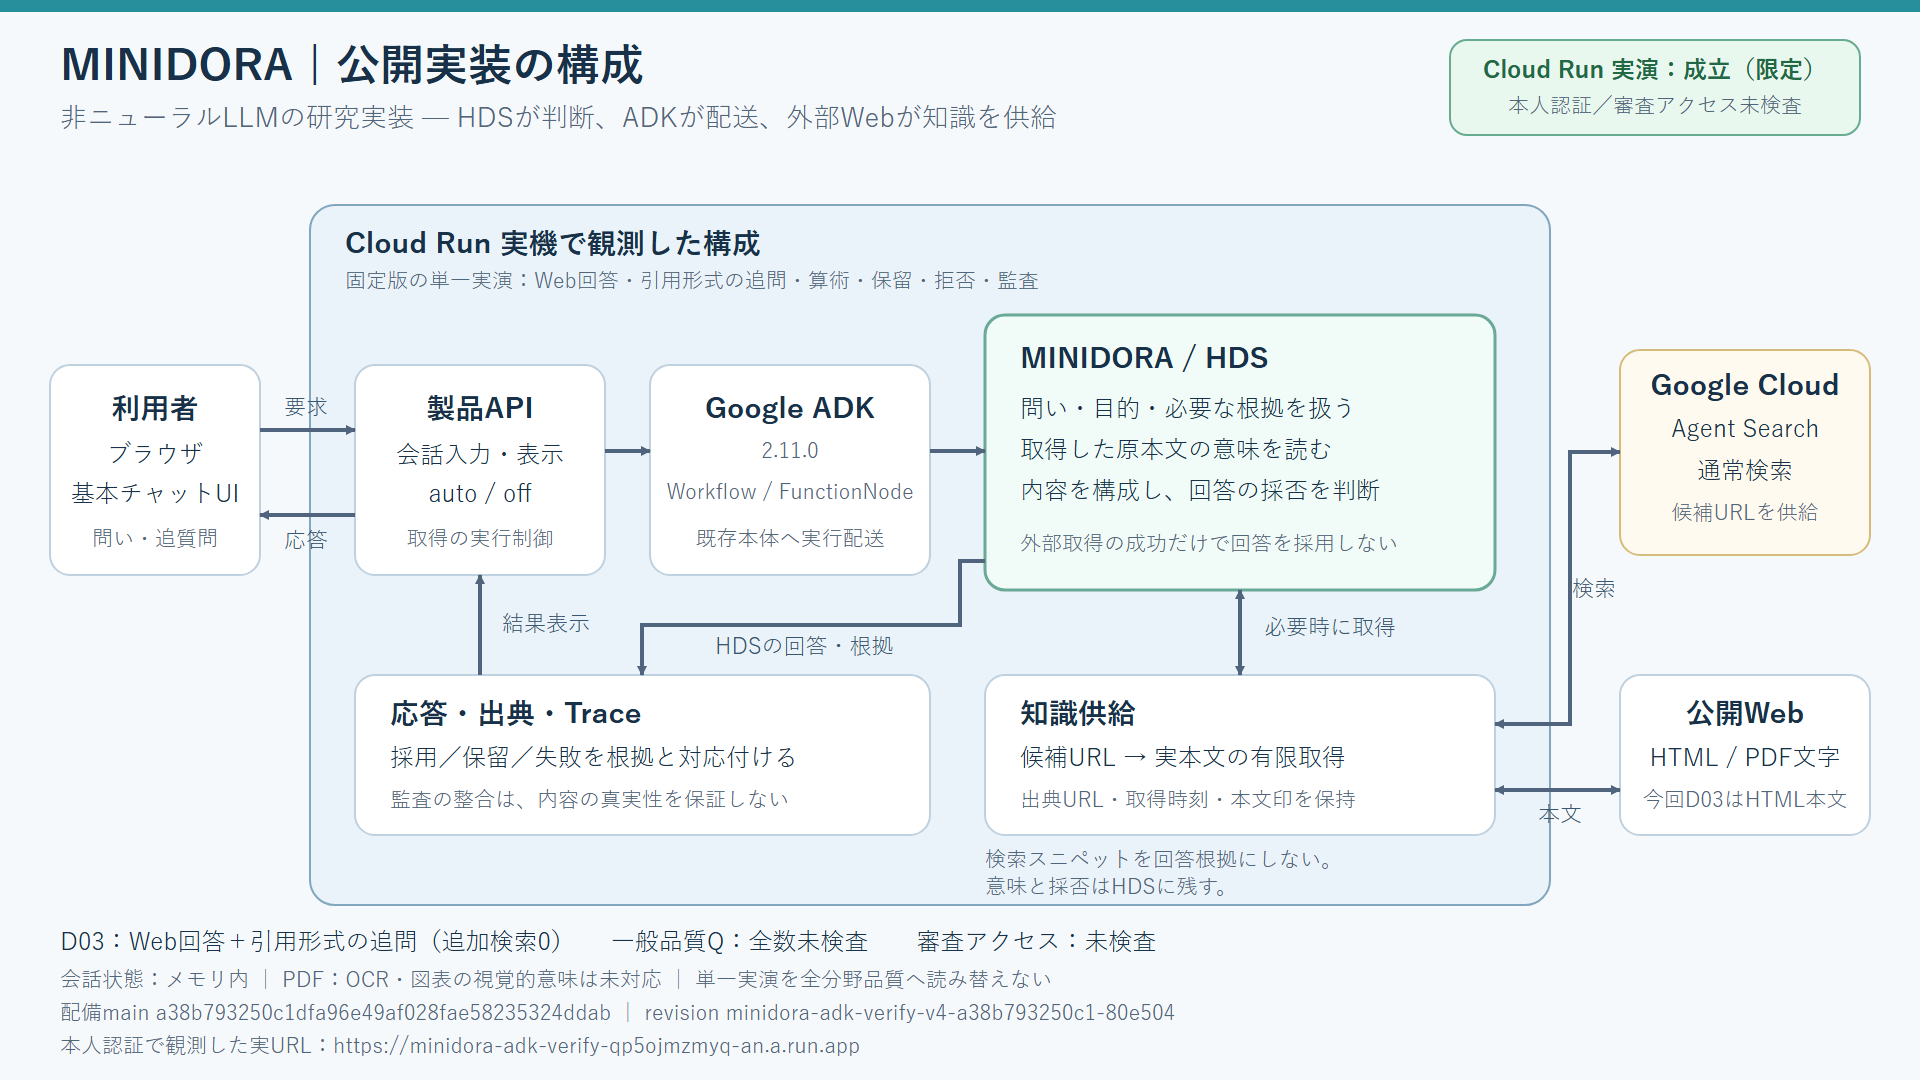
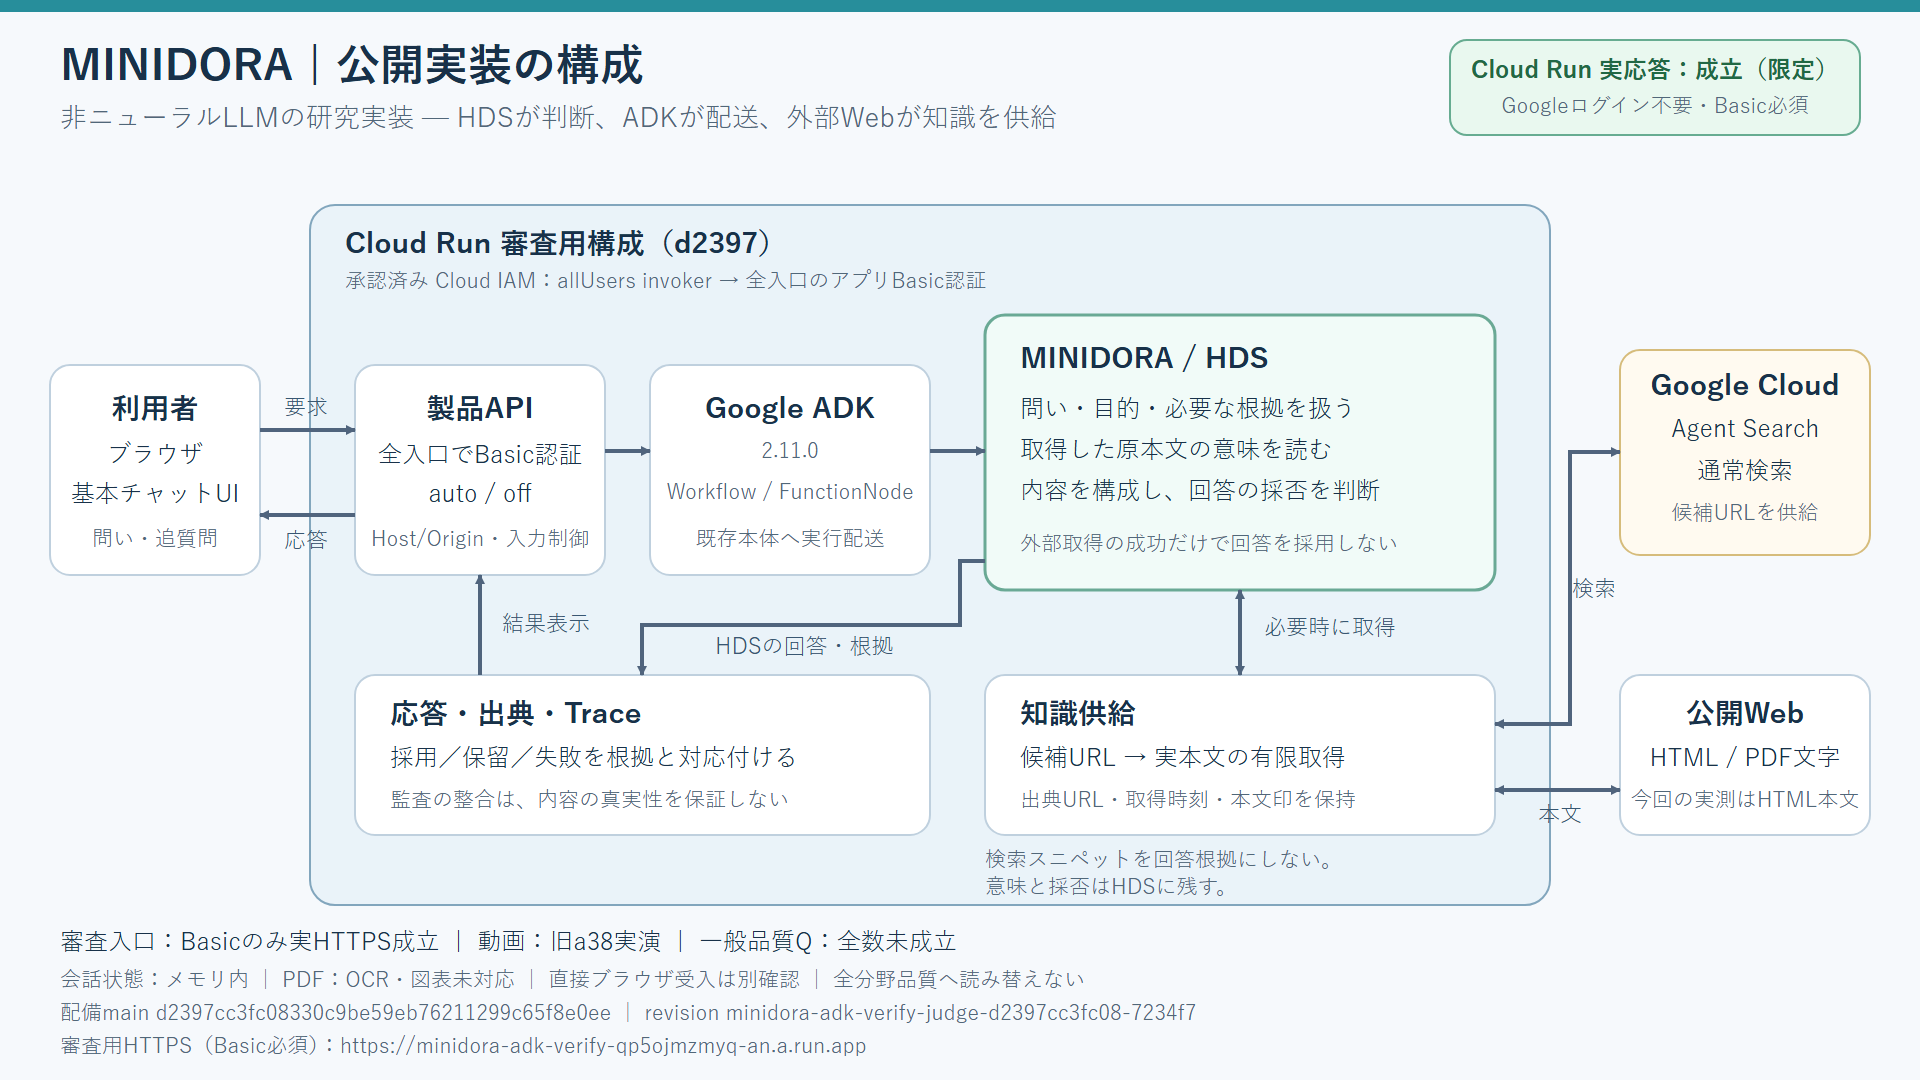
審査用Cloud実機・公開動画・構成図を整合し既存本人IAM保持を検査する

diff --git a/tests/test_CloudRun配備設定.py b/tests/test_CloudRun配備設定.py
@@ -115,6 +115,40 @@ class CloudRun配備設定試験(unittest.TestCase):
         サービス["spec"]["template"]["spec"]["containers"][0]["env"].append({"name": "MINIDORA_HTTP_BASIC_PASSWORD", "value": "invalid"})
         with self.assertRaises(ValueError): self.記録(サービス)
 
+    def test_承認後は同roleの既存本人を保持したまま公開IAMを検査する(self):
+        for members in (["allUsers", "user:judge-fixture@example.invalid"],
+                        ["user:judge-fixture@example.invalid", "allUsers"]):
+            with self.subTest(members=members):
+                IAM = {"bindings": [{IAM役割鍵: "roles/run.invoker", "members": members},
+                                    {IAM役割鍵: "roles/run.viewer", "members": ["user:viewer-fixture@example.invalid"]}]}
+                原IAM = deepcopy(IAM)
+                記録 = self.記録(IAM=IAM, 審査公開=True)
+                self.assertTrue(記録["審査公開"])
+                self.assertFalse(記録["CloudIAM本人認証必須"])
+                self.assertEqual(記録["利用者認証"], "HTTP Basic")
+                self.assertTrue(記録["認証必須"])
+                self.assertEqual(IAM, 原IAM)
+                with self.assertRaises(ValueError): self.記録(IAM=IAM)
+                self.assertEqual(IAM, 原IAM)
+
+    def test_本人併合で余分な公開主体とroleと条件を受け入れない(self):
+        本人 = "user:judge-fixture@example.invalid"
+        公開 = {IAM役割鍵: "roles/run.invoker", "members": ["allUsers", 本人]}
+        不正群 = (
+            {"bindings": [{IAM役割鍵: "roles/run.invoker", "members": [本人]}]},
+            {"bindings": [{IAM役割鍵: "roles/run.invoker", "members": ["allUsers", "allAuthenticatedUsers", 本人]}]},
+            {"bindings": [{IAM役割鍵: "roles/owner", "members": ["allUsers", 本人]}]},
+            {"bindings": [{**公開, "condition": {"expression": "true"}}]},
+            {"bindings": [公開, {IAM役割鍵: "roles/run.invoker", "members": ["allUsers"]}]},
+            {"bindings": [公開, {IAM役割鍵: "roles/run.viewer", "members": ["allAuthenticatedUsers"]}]},
+            {"bindings": [{IAM役割鍵: "roles/run.invoker", "members": ["allUsers", "serviceAccount:" + self.SA]}]},
+        )
+        for 番号, IAM in enumerate(不正群):
+            with self.subTest(番号=番号):
+                原IAM = deepcopy(IAM)
+                with self.assertRaises(ValueError): self.記録(IAM=IAM, 審査公開=True)
+                self.assertEqual(IAM, 原IAM)
+
 
 if __name__ == "__main__":
     unittest.main()

diff --git a/tools/CloudRun配備設定.py b/tools/CloudRun配備設定.py
@@ -44,7 +44,7 @@ def サービスIAMを検査(IAM, *, 審査公開=False):
              if set(行.get("members", [])) & {"allUsers", "allAuthenticatedUsers"}]
     if 審査公開:
         if (len(公開行) != 1 or 公開行[0].get("role") != "roles/run.invoker"
-                or set(公開行[0].get("members", [])) != {"allUsers"}
+                or (set(公開行[0].get("members", [])) & {"allUsers", "allAuthenticatedUsers"}) != {"allUsers"}
                 or 公開行[0].get("condition")):
             raise ValueError("承認後の公開IAMはallUsersのrun.invoker一付与に限定します")
     elif 公開行:

diff --git a/README.md b/README.md
@@ -10,23 +10,35 @@
 
 既存MINIDORAのHDSが問い、必要な根拠、資料の意味、回答の採否を扱い、Google ADK 2.11.0のWorkflow／FunctionNodeから同じ本体へ実行を配送します。根拠が不足する場合は管理者の許可内で検索し、実Web本文を取得します。検索スニペットや外部生成LLMを回答の代行にしません。
 
-2026-10-13、本人認証でCloud Run上の提出用D03実演が成立しました。以下は固定版で行った一回の実演観測であり、一般チャット全体の品質評価ではありません。
+2026-10-13、本人認証でのD03実演に続き、本人承認済みの審査用Basic認証入口で実HTTPS応答を確認しました。以下は固定版の限定的な実機観測であり、一般チャット全体の品質評価ではありません。
 
 | 展示情報 | 実測・現在の状態 |
 |---|---|
-| 実Cloud Run URL | [https://minidora-adk-verify-qp5ojmzmyq-an.a.run.app](https://minidora-adk-verify-qp5ojmzmyq-an.a.run.app)。IAM認証必須 |
-| revision | `minidora-adk-verify-v4-a38b793250c1-80e504` |
-| 配備main／本体コード復元点 | `a38b793250c1dfa96e49af028fae58235324ddab`／`45a383943df8fc58666689ee8e1e8f90de1c26be` |
-| Cloud Build／image digest | `8388d52d-4911-4c98-b632-7d2ed38a1cbc`／`sha256:ff83a7b03ce75d84fb1ffb8411dd1daf5ba7375314fc40c0b59a193910480af0` |
-| 審査アクセス | 本人認証での確認のみ。審査主体の利用許可・到達性は未検査 |
-| 約3分の実演動画 | 180秒MP4完成。指定チャンネルへ非公開下書きとしてアップロード済み、公開前 |
+| 実Cloud Run URL | [https://minidora-adk-verify-qp5ojmzmyq-an.a.run.app](https://minidora-adk-verify-qp5ojmzmyq-an.a.run.app)。HTTP Basic認証必須、Googleログイン不要 |
+| 現在のrevision | `minidora-adk-verify-judge-d2397cc3fc08-7234f7` |
+| 配備main／HDS本体コード復元点 | `d2397cc3fc08330c9be59eb76211299c65f8e0ee`／`45a383943df8fc58666689ee8e1e8f90de1c26be` |
+| Cloud Build／image digest | `49ceef54-1446-46bf-bc92-cd44254c2eef`／`sha256:951be8ea0978ff8d08bf14de7fdf8e68ee5c433faade600468b0cd255e8b217d` |
+| 審査アクセス | Basicだけを使うHTTPS検査19件・実応答3件を確認。通常ブラウザでの資格入力から回答表示までは未確認 |
+| 約3分の実演動画 | [YouTube公開動画](https://youtu.be/q7hF26QBabI)。180秒、旧a38 revisionの本人認証付き実演を収録 |
 | 一般チャット品質Q | 全数未検査・未成立。Cloud実演・提出とは別に評価 |
 
 ![MINIDORAの公開構成図](docs/minidora-cloud-architecture.png)
 
-[構成図SVG](docs/minidora-cloud-architecture.svg)／[構成図PNG](docs/minidora-cloud-architecture.png)。図は実装済みの接続と、限定的な実機観測・未確認の状態を示します。
+[構成図SVG](docs/minidora-cloud-architecture.svg)／[構成図PNG](docs/minidora-cloud-architecture.png)。現在の図はd2397の審査用Basic認証境界を示します。動画内の図と実画面は、先に収録した旧a38の本人認証付き構成です。HDS本体・ADK配送・検索処理は同じで、d2397ではHTTP認証境界を追加しています。
 
-### 今回Cloud上で観測した範囲
+### 審査用d2397で観測した範囲
+
+本人承認後、対象サービスに`allUsers`の`roles/run.invoker`だけを追加し、既存の本人権限とサービス構成を維持しました。アプリの全入口でBasic認証を要求し、Host/Origin・入力・頻度・監査の境界を維持しています。Googleの本人OIDCを取得・使用しないHTTPS検査19件で、UI・静的ファイル・health・capabilities、以下の3応答とTraceの取得を確認しました。
+
+| 入力 | 実応答・採否 | 実HTTP所要秒 |
+|---|---|---:|
+| `8*9` | `72`、APPROVE | 6.078 |
+| `藻場とは何か。` | `藻場は海藻が茂る場所です。`、APPROVE | 14.453 |
+| 同じ会話で `引用形式にして` | `> 藻場は海藻が茂る場所です。`、APPROVE | 15.562 |
+
+Web質問では検索1回・実本文1件を使い、追質問では同じ原本文を再利用して追加検索・取得HTTPが0でした。各応答でADK 2.11.0のWorkflow／FunctionNode、HDS呼出1、応答・Trace・独立v2監査の11項目が一致しました。無資格の6入口と誤資格のhealthは401、別Originは403、不正JSONは400でした。これは有限の実機検査であり、全受入CLIや一般品質Qを代替しません。
+
+### 旧a38 D03で観測した範囲
 
 | 入力 | 実応答・採否 | 実HTTP所要秒 |
 |---|---|---:|
@@ -38,13 +50,13 @@
 
 藻場の質問では、許可引数を指定せず、HDSの要求から検索1回・実本文1件を取得しました。回答は[環境省の「藻場とは」](https://www.env.go.jp/water/heisa/heisa_net/setouchiNet/seto/g1/g1chapter3/mobahigata/mobatowa/index.html)の「藻場とは、海藻が茂る場所のことです。」に対応します。同じ会話の引用形式への追質問は、この原資料を再利用し、追加検索・取得HTTPは0でした。この題材は開発時にも扱っており、初見独立品質評価の合格例には算入しません。
 
-5応答すべてでADK 2.11.0のWorkflow／FunctionNodeを通り、各要求のHDS呼出数は1でした。応答ごとの11項目の技術照合が成立し、独立した監査v2の再計算も一致しました。UI・health・capabilitiesは認証付きHTTP 200、未認証アクセスは403、別Originは403、不正JSONは400を観測しています。
+旧a38のrevision `minidora-adk-verify-v4-a38b793250c1-80e504`、main `a38b793250c1dfa96e49af028fae58235324ddab`で、5応答すべてがADK 2.11.0のWorkflow／FunctionNodeを通り、各要求のHDS呼出数は1でした。応答ごとの11項目の技術照合が成立し、独立した監査v2の再計算も一致しました。UI・health・capabilitiesは認証付きHTTP 200、未認証アクセスは403、別Originは403、不正JSONは400を観測しています。
 
-起動と取得方針は [製品版README](製品版/README.md) と [Cloud Run配備案内](deploy/CLOUD_RUN.md) を参照してください。審査アクセスは未検査のため、このURLを誰でも操作できる展示URLとは扱いません。認証を解除して公開する構成にはしていません。
+起動と取得方針は [製品版README](製品版/README.md) と [Cloud Run配備案内](deploy/CLOUD_RUN.md) を参照してください。審査員向けの操作手順は、上記HTTPS URLを開き、非公開欄で提供するusername/passwordを入力した後、「藻場とは何か。」、同じ会話で「引用形式にして」を送り、出典とTraceを確認するものです。資格を公開README、URL、画像、動画へ記載しません。取得許可は毎回指定する必要はなく、管理者の`auto`方針内でHDSが必要性を判断します。
 
-審査用の新しいHTTP入口は、全画面・API・healthでBasic認証を要求します。初回配備・受入はCloud IAMの本人認証も維持し、アプリ資格とGoogleの短期認証を分けます。審査員向けにCloud IAMの呼出許可を公開する操作は、本人承認後の手動工程です。Basic認証・Host/Origin・入力上限は公開後も維持します。非公開既定のworkflowへ公開フラグを追加して承認を迂回しません。実機の審査到達性は、ログインしていないブラウザで資格入力から実応答まで確認して判断します。設定と手動審査公開modeは[Cloud Run配備案内](deploy/CLOUD_RUN.md#審査用basic認証と手動公開mode)を参照してください。
+初回の新Basic入口はCloud IAMの本人認証も維持して受け入れ、その後、本人承認の手動操作で審査公開に切り替えました。旧a38の動画と新Basicの非公開IAM時のUI確認は、本人認証の中継を使いました。公開後の操作環境では直接Basic到達が制限され、中継UIの1試行も接続確認中のまま、チャット要求を開始せず終了しました。通常ブラウザの認証ダイアログからUI実応答までの受入は未確認で、前記のHTTPS検査と区別します。通常の配備workflowは非公開IAMを前提とし、公開済みサービスへの無断再配備を拒否します。設定と手動審査公開modeは[Cloud Run配備案内](deploy/CLOUD_RUN.md#審査用basic認証と手動公開mode)を参照してください。
 
-会話状態はメモリ内に限られ、再起動・新revision・インスタンス交換で失われます。PDFのOCRや図表の視覚的意味は未対応です。監査ハッシュの整合を回答の真実性の単独保証とは扱いません。3分の実画面動画MP4は完成し、指定チャンネルに非公開の下書きとしてアップロード済みです。動画の公開、審査アクセス、一般品質Q、応募受付は未成立です。下記のGPQA値は別系列・別時点の評価であり、この展示の一般チャット品質を表す値ではありません。
+会話状態はメモリ内に限られ、再起動・新revision・インスタンス交換で失われます。PDFのOCRや図表の視覚的意味は未対応です。監査ハッシュの整合を回答の真実性の単独保証とは扱いません。180秒の[公開動画](https://youtu.be/q7hF26QBabI)は旧a38の実ブラウザ画像を時系列で編集した間欠収録です。連続録画ではなく、収録時の通信エラー1回と再送後の成功を含めています。一般品質Qは未成立です。応募受付は別の提出操作で確認します（[Zennプロジェクトページ](https://zenn.dev/hackathons/google-cloud-japan-ai-hackathon-vol5/projects/4d372c1f56834c)）。下記のGPQA値は別系列・別時点の評価であり、この展示の一般チャット品質を表す値ではありません。
 
 ## 現在地
 

diff --git a/製品版/README.md b/製品版/README.md
@@ -119,9 +119,9 @@ APIの `external_read` を省略すると管理者方針に従います。`false
 
 提示文章の説明・要約・比較には外部検索許可は不要です。検索結果の見出しや短い説明だけを事実の根拠にせず、回答の主要な主張を取得本文へ対応させます。構文や根拠が不足する場合は、保留と不足条件を返します。起動や採用状態だけでは一般チャットの品質成立を意味しません。
 
-会話状態と監査台帳はメモリに保持します。新しい会話IDでは以前の会話を参照できず、サーバの再起動では失われます。今回のCloud Run実測は本人認証での限定的なD03実演です。審査主体のアクセスと再起動をまたぐ会話継続は未確認です。
+会話状態と監査台帳はメモリに保持します。新しい会話IDでは以前の会話を参照できず、サーバの再起動では失われます。Cloud Runでは旧a38の本人認証付きD03実演に続き、main `d2397cc3fc08330c9be59eb76211299c65f8e0ee`、revision `minidora-adk-verify-judge-d2397cc3fc08-7234f7`の審査用Basicのみの実HTTPS検査を確認しました。本人承認により対象サービスのCloud IAM呼出許可を公開し、全画面・API・healthのBasic認証を維持しています。審査用URLは [リポジトリREADME](../README.md) を参照し、資格は審査員向け非公開欄で提供します。直接ブラウザの資格入力から回答表示までと、再起動をまたぐ会話継続は別の未確認事項です。
 
-この基本チャットは一般品質の受入前の開発版です。2026-10-13のCloud上のD03では、藻場の実本文に対応する回答と同じ会話の引用形式への追質問、算術の入力変更、保留と拒否、ADK通過・監査の対応を一回観測しました。算術後の「詳しく説明して」はSUSPENDです。詳しい入力・出典・配備版は [リポジトリREADME](../README.md) を参照してください。審査主体の到達性、独立品質Qの全数評価、完成動画・掲載、応募受付は未成立です。局所検査やこの実演を一般質問の品質合格へ算入しません。Qの未成立を実機・提出の開始前条件にせず、未達を成立済みとは表示しません。
+この基本チャットは一般品質の受入前の開発版です。2026-10-13のCloud上のD03では、藻場の実本文に対応する回答と同じ会話の引用形式への追質問、算術の入力変更、保留と拒否、ADK通過・監査の対応を一回観測しました。算術後の「詳しく説明して」はSUSPENDです。詳しい入力・出典・配備版は [リポジトリREADME](../README.md) を参照してください。新Basic入口ではGoogleの本人OIDCを使わないHTTPS検査19件と実応答3件が成立し、[180秒のYouTube動画](https://youtu.be/q7hF26QBabI)も公開しました。動画は旧a38の実画面と図を収録したもので、d2397では同じHDS本体へHTTP認証境界を追加しています。直接ブラウザの資格入力から回答表示、独立品質Q全数、応募受付は、この限定受入だけでは成立としません。局所検査やこの実演を一般質問の品質合格へ算入しません。Qの未成立を実機・提出の開始前条件にせず、未達を成立済みとは表示しません。
 
 ## 従来のローカルWeb検索
 

diff --git a/CURRENT_CANONICAL.md b/CURRENT_CANONICAL.md
@@ -27,7 +27,9 @@
 
 - 旧候補の実不成立からの有限追加検索（2026-10-13、受入前）の復元点: `45a383943df8fc58666689ee8e1e8f90de1c26be`。実不成立・旧本文・原不足・資源消費を保持し、候補原順序と実重複を照合。関連58件PASSと追加補強3件PASS、最終影響3件PASSを確認。MVP本文総数を2検索×各6本文の12へ有限再評価。初見品質受入と新MVPのCloud Run実機受入は未成立。
 
-- 最新のCloud実演状態（2026-10-13、限定D03）：main `a38b793250c1dfa96e49af028fae58235324ddab`、本体復元点 `45a383943df8fc58666689ee8e1e8f90de1c26be`。本人認証の[実URL](https://minidora-adk-verify-qp5ojmzmyq-an.a.run.app)、revision `minidora-adk-verify-v4-a38b793250c1-80e504`でWeb本文に対応する回答・引用形式の追質問・算術入力変更・保留・拒否を一回観測。5応答の各11技術項目と独立v2監査が成立。審査主体アクセス、一般品質Q全数、完成動画・掲載、応募受付は未成立。GPQA性能正本は更新しない。過去の節目の「未受入」は当時の状態として保持する。
+- 旧a38のCloud実演状態（2026-10-13、限定D03の記録）：main `a38b793250c1dfa96e49af028fae58235324ddab`、本体復元点 `45a383943df8fc58666689ee8e1e8f90de1c26be`。本人認証の[実URL](https://minidora-adk-verify-qp5ojmzmyq-an.a.run.app)、revision `minidora-adk-verify-v4-a38b793250c1-80e504`でWeb本文に対応する回答・引用形式の追質問・算術入力変更・保留・拒否を一回観測。5応答の各11技術項目と独立v2監査が成立。審査主体アクセス、一般品質Q全数、完成動画・掲載、応募受付は未成立。GPQA性能正本は更新しない。過去の節目の「未受入」は当時の状態として保持する。
+
+- 現在の審査用Cloud入口（2026-10-13、限定D04）：main `d2397cc3fc08330c9be59eb76211299c65f8e0ee`、revision `minidora-adk-verify-judge-d2397cc3fc08-7234f7`、[実URL](https://minidora-adk-verify-qp5ojmzmyq-an.a.run.app)。HDS本体復元点は`45a383943df8fc58666689ee8e1e8f90de1c26be`のままHTTP認証境界を追加。本人承認に基づく対象サービスのallUsers invoker一付与後、Basicのみ・本人OIDC取得使用0でHTTPS検査19件、実応答3件、各11技術照合と独立v2監査を確認。180秒の[YouTube動画](https://youtu.be/q7hF26QBabI)は旧a38の本人認証付き実画面・図を収録して公開した。直接ブラウザの資格入力から回答表示、一般品質Q全数、応募受付は、この限定受入だけでは成立としない。GPQA性能正本は未更新。
 
 最後のファイル名は既存リンク互換のため保持する。
 内部理論の定義は公開しない。
